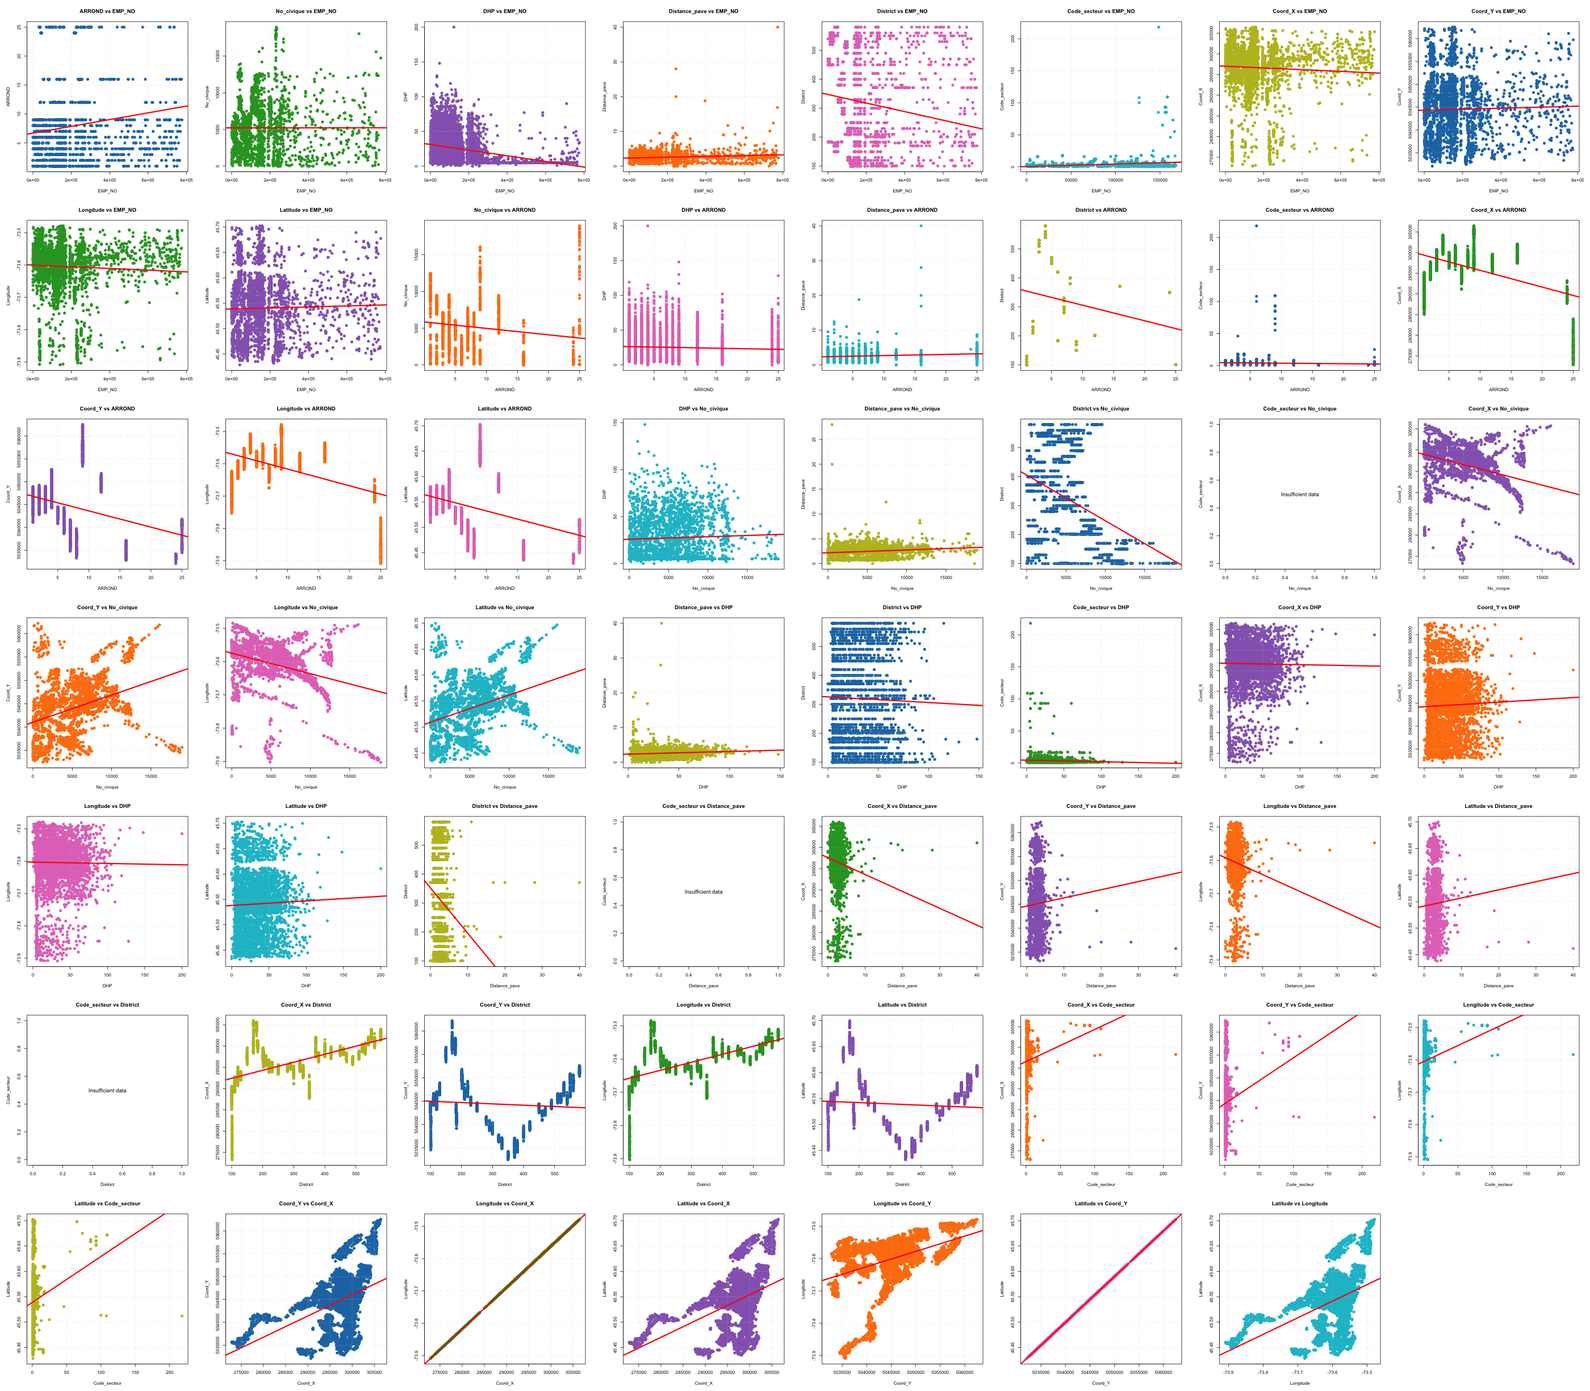
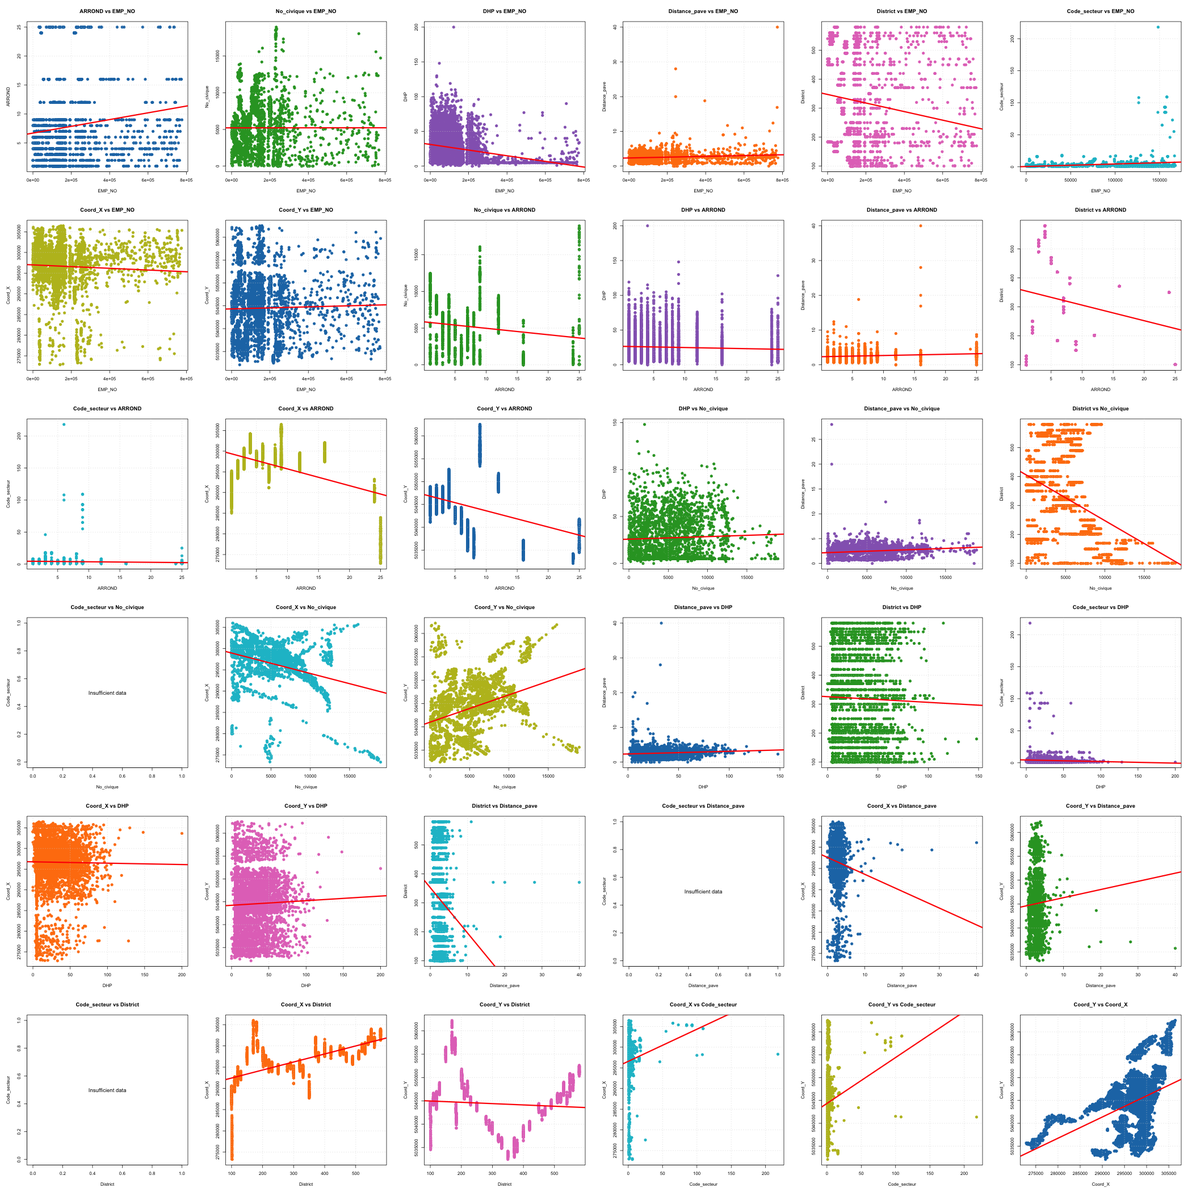
Fix MANOVA rank deficiency by pruning highly correlated columns and fix dependent variable histograms

diff --git a/gen/customer_orders_nominal_audit_report.md b/gen/customer_orders_nominal_audit_report.md
@@ -1,6 +1,6 @@
 # SQL Data Quality and Behavior Analysis Lab Report: customer_orders_nominal
 
-**Report Generated on:** 2026-07-23 09:06:38.885301
+**Report Generated on:** 2026-07-23 09:52:08.220948
 **Source Dataset:** `customer_orders_nominal.csv`
 **Auditor Classification Status:** CRITICAL ANOMALY DETECTED 🔴
 
@@ -38,28 +38,11 @@ The demographic distribution of the sample is detailed below:
 | **C_REGION** | AFRICA | 125 | 20.23% |
 | **C_REGION** | EUROPE | 118 | 19.09% |
 | **C_REGION** | AMERICA | 117 | 18.93% |
-| **O_TOTALPRICE_BIN** | Medium | 210 | 33.98% |
-| **O_TOTALPRICE_BIN** | Low | 204 | 33.01% |
-| **O_TOTALPRICE_BIN** | High | 204 | 33.01% |
-| **C_ACCTBAL_BIN** | Medium | 210 | 33.98% |
-| **C_ACCTBAL_BIN** | Low | 204 | 33.01% |
-| **C_ACCTBAL_BIN** | High | 204 | 33.01% |
-| **TOTAL_QUANTITY_BIN** | Medium | 209 | 33.82% |
-| **TOTAL_QUANTITY_BIN** | Low | 206 | 33.33% |
-| **TOTAL_QUANTITY_BIN** | High | 203 | 32.85% |
-| **AVG_DISCOUNT_BIN** | Low | 209 | 33.82% |
-| **AVG_DISCOUNT_BIN** | Medium | 205 | 33.17% |
-| **AVG_DISCOUNT_BIN** | High | 204 | 33.01% |
-| **TOTAL_DISCOUNT_VALUE_BIN** | Medium | 210 | 33.98% |
-| **TOTAL_DISCOUNT_VALUE_BIN** | Low | 204 | 33.01% |
-| **TOTAL_DISCOUNT_VALUE_BIN** | High | 204 | 33.01% |
-| **MAX_SHIP_DELAY_LOG_BIN** | Medium | 258 | 41.75% |
-| **MAX_SHIP_DELAY_LOG_BIN** | Low | 203 | 32.85% |
-| **MAX_SHIP_DELAY_LOG_BIN** | High | 149 | 24.11% |
 
 Figure 3 presents the sample size distributions across each independent categorical variable to evaluate demographic coverage and statistical power:
 
-![Figure 3: Independent Variable Sample Size Distributions](customer_orders_nominal_independent_distributions.png)
+![Figure 3a: Dependent Variable Sample Size Distributions](customer_orders_nominal_dependent_distributions.png)
+![Figure 3b: Independent Variable Sample Size Distributions](customer_orders_nominal_independent_distributions.png)
 
 ### Apparatus and Setup
 Queries were executed against the Snowflake TPC-H sample database (`SNOWFLAKE_SAMPLE_DATA.TPCH_SF1`; Transaction Processing Performance Council [TPC], 2014) using the Snowflake CLI tool (`snow` CLI v3.20.0). Statistical analysis and clustering were computed in R using packages `car` (ANOVA/MANOVA modelling) and `cluster` (K-Means silhouette groupings).
@@ -73,7 +56,7 @@ To profile user choice dynamics, click patterns, and decision hesitation (Pongra
 
 ### Experimental Design
 We define a mixed multivariate design incorporating:
-* **Independent Variables (Factors)**: `O_ORDERSTATUS`, `O_ORDERPRIORITY`, `C_MKTSEGMENT`, `C_REGION`, `O_TOTALPRICE_BIN`, `C_ACCTBAL_BIN`, `TOTAL_QUANTITY_BIN`, `AVG_DISCOUNT_BIN`, `TOTAL_DISCOUNT_VALUE_BIN`, `MAX_SHIP_DELAY_LOG_BIN`
+* **Independent Variables (Factors)**: `O_ORDERSTATUS`, `O_ORDERPRIORITY`, `C_MKTSEGMENT`, `C_REGION`
 * **Dependent Variables (Metrics)**: `O_TOTALPRICE`, `C_ACCTBAL`, `TOTAL_QUANTITY`, `AVG_DISCOUNT`, `TOTAL_DISCOUNT_VALUE`, `ITEM_COUNT`, `MAX_SHIP_DELAY_LOG`
 
 ### Response-Time Preprocessing (Methodological Standards)
@@ -91,64 +74,31 @@ Following standard methodologies for reaction time outcomes (McConnell et al., 2
 - **WARNING: Constant Column 'O_ORDERSTATUS'**: 100% of rows contain the value 'O'.
 - **WARNING: Constant Column 'O_ORDERDATE'**: 100% of rows contain the value '1998-08-01'.
 - **WARNING: Suspicious Uniformity on 'C_REGION'**: Category counts are highly uniform (Coefficient of Variation = 0.0474). This suggests the dataset is synthetic or has been artificially balanced.
-- **WARNING: Suspicious Uniformity on 'O_TOTALPRICE_BIN'**: Category counts are highly uniform (Coefficient of Variation = 0.0168). This suggests the dataset is synthetic or has been artificially balanced.
-- **WARNING: Suspicious Uniformity on 'C_ACCTBAL_BIN'**: Category counts are highly uniform (Coefficient of Variation = 0.0168). This suggests the dataset is synthetic or has been artificially balanced.
-- **WARNING: Suspicious Uniformity on 'TOTAL_QUANTITY_BIN'**: Category counts are highly uniform (Coefficient of Variation = 0.0146). This suggests the dataset is synthetic or has been artificially balanced.
-- **WARNING: Suspicious Uniformity on 'AVG_DISCOUNT_BIN'**: Category counts are highly uniform (Coefficient of Variation = 0.0128). This suggests the dataset is synthetic or has been artificially balanced.
-- **WARNING: Suspicious Uniformity on 'TOTAL_DISCOUNT_VALUE_BIN'**: Category counts are highly uniform (Coefficient of Variation = 0.0168). This suggests the dataset is synthetic or has been artificially balanced.
 
 ### Statistical Hypothesis Testing
 #### MANOVA Group Factor Outcomes
 We executed [multivariate analysis of variance (MANOVA)](https://en.wikipedia.org/wiki/Multivariate_analysis_of_variance) using [Pillai's trace](https://www.statisticshowto.com/pillais-trace/) to test for overall group differences across continuous variables:
 
 - **Group Factor 'O_ORDERPRIORITY'**:
-  - Pillai's Trace: `0.0382`
-  - Approximate F:  `0.8289`
-  - p-value:        `0.7218` (Not Significant)
+  - Pillai's Trace: `0.0310`
+  - Approximate F:  `0.7840`
+  - p-value:        `0.7611` (Not Significant)
 
 - **Group Factor 'C_MKTSEGMENT'**:
-  - Pillai's Trace: `0.0509`
-  - Approximate F:  `1.1079`
-  - p-value:        `0.3175` (Not Significant)
+  - Pillai's Trace: `0.0484`
+  - Approximate F:  `1.2307`
+  - p-value:        `0.2022` (Not Significant)
 
 - **Group Factor 'C_REGION'**:
-  - Pillai's Trace: `0.0254`
-  - Approximate F:  `0.5488`
-  - p-value:        `0.9739` (Not Significant)
-
-- **Group Factor 'MAX_SHIP_DELAY_LOG_BIN'**:
-  - Pillai's Trace: `0.6264`
-  - Approximate F:  `39.2228`
-  - p-value:        `< 0.0001` (Statistically Significant)
+  - Pillai's Trace: `0.0180`
+  - Approximate F:  `0.4539`
+  - p-value:        `0.9896` (Not Significant)
 
 
 #### ANOVA Outputs (Significant Univariate Groupings)
 We evaluated individual [univariate Analysis of Variance (ANOVA)](https://en.wikipedia.org/wiki/Analysis_of_variance) models for each continuous metric. The following factors show statistically significant differences (p < 0.05) in group means:
 
-- **Significant variation in 'O_TOTALPRICE' grouped by 'TOTAL_QUANTITY_BIN'**: F = `1279.3364`, p = `< 0.0001`
-- **Significant variation in 'O_TOTALPRICE' grouped by 'AVG_DISCOUNT_BIN'**: F = `14.2000`, p = `< 0.0001`
-- **Significant variation in 'O_TOTALPRICE' grouped by 'TOTAL_DISCOUNT_VALUE_BIN'**: F = `511.4893`, p = `< 0.0001`
-- **Significant variation in 'O_TOTALPRICE' grouped by 'MAX_SHIP_DELAY_LOG_BIN'**: F = `51.2760`, p = `< 0.0001`
-- **Significant variation in 'TOTAL_QUANTITY' grouped by 'O_TOTALPRICE_BIN'**: F = `1427.0373`, p = `< 0.0001`
-- **Significant variation in 'TOTAL_QUANTITY' grouped by 'AVG_DISCOUNT_BIN'**: F = `16.1459`, p = `< 0.0001`
-- **Significant variation in 'TOTAL_QUANTITY' grouped by 'TOTAL_DISCOUNT_VALUE_BIN'**: F = `518.9834`, p = `< 0.0001`
-- **Significant variation in 'TOTAL_QUANTITY' grouped by 'MAX_SHIP_DELAY_LOG_BIN'**: F = `52.4728`, p = `< 0.0001`
-- **Significant variation in 'AVG_DISCOUNT' grouped by 'TOTAL_DISCOUNT_VALUE_BIN'**: F = `53.0806`, p = `< 0.0001`
-- **Significant variation in 'TOTAL_DISCOUNT_VALUE' grouped by 'O_TOTALPRICE_BIN'**: F = `448.7368`, p = `< 0.0001`
-- **Significant variation in 'TOTAL_DISCOUNT_VALUE' grouped by 'TOTAL_QUANTITY_BIN'**: F = `452.6462`, p = `< 0.0001`
-- **Significant variation in 'TOTAL_DISCOUNT_VALUE' grouped by 'AVG_DISCOUNT_BIN'**: F = `71.1741`, p = `< 0.0001`
-- **Significant variation in 'TOTAL_DISCOUNT_VALUE' grouped by 'MAX_SHIP_DELAY_LOG_BIN'**: F = `35.7527`, p = `< 0.0001`
-- **Significant variation in 'ITEM_COUNT' grouped by 'O_TOTALPRICE_BIN'**: F = `716.1448`, p = `< 0.0001`
-- **Significant variation in 'ITEM_COUNT' grouped by 'TOTAL_QUANTITY_BIN'**: F = `830.1939`, p = `< 0.0001`
-- **Significant variation in 'ITEM_COUNT' grouped by 'AVG_DISCOUNT_BIN'**: F = `28.6173`, p = `< 0.0001`
-- **Significant variation in 'ITEM_COUNT' grouped by 'TOTAL_DISCOUNT_VALUE_BIN'**: F = `341.0506`, p = `< 0.0001`
-- **Significant variation in 'ITEM_COUNT' grouped by 'MAX_SHIP_DELAY_LOG_BIN'**: F = `65.4372`, p = `< 0.0001`
 - **Significant variation in 'MAX_SHIP_DELAY_LOG' grouped by 'C_MKTSEGMENT'**: F = `2.8583`, p = `0.0229`
-- **Significant variation in 'MAX_SHIP_DELAY_LOG' grouped by 'O_TOTALPRICE_BIN'**: F = `67.2699`, p = `< 0.0001`
-- **Significant variation in 'MAX_SHIP_DELAY_LOG' grouped by 'TOTAL_QUANTITY_BIN'**: F = `73.0717`, p = `< 0.0001`
-- **Significant variation in 'MAX_SHIP_DELAY_LOG' grouped by 'AVG_DISCOUNT_BIN'**: F = `4.4221`, p = `0.0124`
-- **Significant variation in 'MAX_SHIP_DELAY_LOG' grouped by 'TOTAL_DISCOUNT_VALUE_BIN'**: F = `49.7741`, p = `< 0.0001`
-- **Significant variation in 'MAX_SHIP_DELAY_LOG' grouped by 'MAX_SHIP_DELAY_LOG_BIN'**: F = `463.7476`, p = `< 0.0001`
 
 Figure 2 presents the pairwise scatterplots with a fitted linear regression line of best fit to visualize the correlation and linear relationships between these continuous metrics:
 
@@ -159,17 +109,17 @@ We standardized the numeric metrics and fitted a [K-Means clustering algorithm](
 
 | Persona Cluster | Order Count | Percentage (%) |
 |---|---|---|
-| **Cluster 1** | 287 | 46.44% |
-| **Cluster 2** | 331 | 53.56% |
+| **Cluster 1** | 317 | 51.29% |
+| **Cluster 2** | 301 | 48.71% |
 
 
 #### Population Profiles (Cluster Feature Means)
 To characterize the discovered customer order personas in terms of the original variables, the table below presents the mean value of each numeric metric within each cluster:
 
-| Cluster | O_TOTALPRICE | C_ACCTBAL | TOTAL_QUANTITY | AVG_DISCOUNT | TOTAL_DISCOUNT_VALUE | ITEM_COUNT | MAX_SHIP_DELAY_LOG |
-|---|---|---|---|---|---|---|---|
-| **Cluster 1** | 230128.95 | 4277.64 | 155.00 | 0.05 | 12067.62 | 5.79 | 3.29 |
-| **Cluster 2** | 84001.63 | 4779.32 | 56.68 | 0.05 | 3926.69 | 2.48 | 3.03 |
+| Cluster | O_TOTALPRICE | C_ACCTBAL | AVG_DISCOUNT | TOTAL_DISCOUNT_VALUE | ITEM_COUNT | MAX_SHIP_DELAY_LOG |
+|---|---|---|---|---|---|---|
+| **Cluster 1** | 81640.16 | 4764.78 | 0.05 | 3686.01 | 2.42 | 3.02 |
+| **Cluster 2** | 225819.33 | 4316.29 | 0.05 | 11942.45 | 5.70 | 3.29 |
 
 
 ## 4. Exploratory Multivariate Analysis and Cluster Diagnostics
@@ -182,13 +132,12 @@ To reverse-engineer which original variables drive the principal component proje
 
 | Metric | PC1 Loading | PC2 Loading | Influence Strength (PC1 & PC2) |
 |---|---|---|---|
-| `AVG_DISCOUNT` | `-0.0911` | `0.8663` | `0.8711` |
-| `TOTAL_DISCOUNT_VALUE` | `-0.4614` | `0.2736` | `0.5364` |
-| `TOTAL_QUANTITY` | `-0.4938` | `-0.1083` | `0.5055` |
-| `O_TOTALPRICE` | `-0.4916` | `-0.1107` | `0.5039` |
-| `ITEM_COUNT` | `-0.4673` | `-0.1320` | `0.4855` |
-| `MAX_SHIP_DELAY_LOG` | `-0.2700` | `-0.1856` | `0.3276` |
-| `C_ACCTBAL` | `0.0462` | `-0.3143` | `0.3177` |
+| `AVG_DISCOUNT` | `-0.1410` | `0.8526` | `0.8642` |
+| `TOTAL_DISCOUNT_VALUE` | `-0.5341` | `0.2340` | `0.5831` |
+| `O_TOTALPRICE` | `-0.5456` | `-0.1462` | `0.5648` |
+| `ITEM_COUNT` | `-0.5309` | `-0.1807` | `0.5608` |
+| `MAX_SHIP_DELAY_LOG` | `-0.3333` | `-0.2676` | `0.4275` |
+| `C_ACCTBAL` | `0.0648` | `-0.3045` | `0.3113` |
 
 
 ### Interpretation of Figure 1:
@@ -204,11 +153,6 @@ Based on the results, we recommend the following modifications to improve the SQ
 - **Constant Column 'O_ORDERSTATUS'**: Verify if this is an intended filter (e.g., single day partition). If not, verify that you didn't accidentally hardcode a value or introduce a query join bug.
 - **Constant Column 'O_ORDERDATE'**: Verify if this is an intended filter (e.g., single day partition). If not, verify that you didn't accidentally hardcode a value or introduce a query join bug.
 - **Investigate Uniformity on 'C_REGION'**: Ensure this uniform distribution is natural for your business domain, or replace with a representative natural dataset.
-- **Investigate Uniformity on 'O_TOTALPRICE_BIN'**: Ensure this uniform distribution is natural for your business domain, or replace with a representative natural dataset.
-- **Investigate Uniformity on 'C_ACCTBAL_BIN'**: Ensure this uniform distribution is natural for your business domain, or replace with a representative natural dataset.
-- **Investigate Uniformity on 'TOTAL_QUANTITY_BIN'**: Ensure this uniform distribution is natural for your business domain, or replace with a representative natural dataset.
-- **Investigate Uniformity on 'AVG_DISCOUNT_BIN'**: Ensure this uniform distribution is natural for your business domain, or replace with a representative natural dataset.
-- **Investigate Uniformity on 'TOTAL_DISCOUNT_VALUE_BIN'**: Ensure this uniform distribution is natural for your business domain, or replace with a representative natural dataset.
 
 ### Methodological Discussion on Skewness
 As detailed in the references, response-time metrics are typically right-skewed and violating [normality assumptions](https://en.wikipedia.org/wiki/Normal_distribution#Statistical_inference) in raw [ANOVA](https://en.wikipedia.org/wiki/Analysis_of_variance) leads to higher [Type I errors](https://en.wikipedia.org/wiki/Type_I_and_Type_II_errors#Type_I_error). Log-transforming the delay metrics significantly stabilizes the residuals, making our multivariate models highly reliable for identifying behavioral deviations in the customer order personas.
@@ -275,12 +219,8 @@ The following table details the variables that were audited and identified as un
 |---|---|---|
 | `O_ORDERSTATUS` | constant | Constant column (0 variance) |
 | `C_REGION` | uniform | Suspicious uniformity (Coefficient of Variation = 0.0474 < 8%) |
-| `O_TOTALPRICE_BIN` | uniform | Suspicious uniformity (Coefficient of Variation = 0.0168 < 8%) |
-| `C_ACCTBAL_BIN` | uniform | Suspicious uniformity (Coefficient of Variation = 0.0168 < 8%) |
-| `TOTAL_QUANTITY_BIN` | uniform | Suspicious uniformity (Coefficient of Variation = 0.0146 < 8%) |
-| `AVG_DISCOUNT_BIN` | uniform | Suspicious uniformity (Coefficient of Variation = 0.0128 < 8%) |
-| `TOTAL_DISCOUNT_VALUE_BIN` | uniform | Suspicious uniformity (Coefficient of Variation = 0.0168 < 8%) |
 | `O_ORDERPRIORITY` | insignificant | Statistically insignificant (p-value >= 0.05 across all ANOVA/MANOVA groups) |
+| `TOTAL_QUANTITY` | collinear | Multicollinearity (high redundancy correlation >= 0.95 with another variable) |
 
 Figure 4 presents the distribution of these uninformative variables, showing why they lack statistical value (e.g. constant values, artificial uniform distributions, or flat statistical groupings):
 

diff --git a/gen/arbres-publics_audit_report.md b/gen/arbres-publics_audit_report.md
@@ -1,6 +1,6 @@
 # SQL Data Quality and Behavior Analysis Lab Report: arbres-publics
 
-**Report Generated on:** 2026-07-23 09:43:28.26632
+**Report Generated on:** 2026-07-23 09:52:21.379951
 **Source Dataset:** `arbres-publics.csv`
 **Auditor Classification Status:** MINOR ANOMALY DETECTED 🟡
 
@@ -103,7 +103,51 @@ We define a mixed multivariate design incorporating:
 #### MANOVA Group Factor Outcomes
 We executed [multivariate analysis of variance (MANOVA)](https://en.wikipedia.org/wiki/Multivariate_analysis_of_variance) using [Pillai's trace](https://www.statisticshowto.com/pillais-trace/) to test for overall group differences across continuous variables:
 
-No MANOVA tests could be computed.
+- **Group Factor 'INV_TYPE'**:
+  - Pillai's Trace: `0.1354`
+  - Approximate F:  `156.3662`
+  - p-value:        `< 0.0001` (Statistically Significant)
+
+- **Group Factor 'Rue_cote_LUMPED'**:
+  - Pillai's Trace: `0.5601`
+  - Approximate F:  `125.9315`
+  - p-value:        `< 0.0001` (Statistically Significant)
+
+- **Group Factor 'Emplacement_LUMPED'**:
+  - Pillai's Trace: `0.2525`
+  - Approximate F:  `53.0966`
+  - p-value:        `< 0.0001` (Statistically Significant)
+
+- **Group Factor 'Sigle_LUMPED'**:
+  - Pillai's Trace: `0.4433`
+  - Approximate F:  `32.3058`
+  - p-value:        `< 0.0001` (Statistically Significant)
+
+- **Group Factor 'Essence_latin_LUMPED'**:
+  - Pillai's Trace: `0.4433`
+  - Approximate F:  `32.3058`
+  - p-value:        `< 0.0001` (Statistically Significant)
+
+- **Group Factor 'Essence_fr_LUMPED'**:
+  - Pillai's Trace: `0.4433`
+  - Approximate F:  `32.3058`
+  - p-value:        `< 0.0001` (Statistically Significant)
+
+- **Group Factor 'Essence_ang_LUMPED'**:
+  - Pillai's Trace: `0.4433`
+  - Approximate F:  `32.3058`
+  - p-value:        `< 0.0001` (Statistically Significant)
+
+- **Group Factor 'Stationnement_jour_LUMPED'**:
+  - Pillai's Trace: `0.1687`
+  - Approximate F:  `34.8504`
+  - p-value:        `< 0.0001` (Statistically Significant)
+
+- **Group Factor 'Stationnement_heure_LUMPED'**:
+  - Pillai's Trace: `0.2057`
+  - Approximate F:  `16.4451`
+  - p-value:        `< 0.0001` (Statistically Significant)
+
 
 #### ANOVA Outputs (Significant Univariate Groupings)
 We evaluated individual [univariate Analysis of Variance (ANOVA)](https://en.wikipedia.org/wiki/Analysis_of_variance) models for each continuous metric. The following factors show statistically significant differences (p < 0.05) in group means:
@@ -180,24 +224,6 @@ We evaluated individual [univariate Analysis of Variance (ANOVA)](https://en.wik
 - **Significant variation in 'Coord_Y' grouped by 'Essence_ang_LUMPED'**: F = `4.5766`, p = `< 0.0001`
 - **Significant variation in 'Coord_Y' grouped by 'Stationnement_jour_LUMPED'**: F = `36.2717`, p = `< 0.0001`
 - **Significant variation in 'Coord_Y' grouped by 'Stationnement_heure_LUMPED'**: F = `11.6129`, p = `< 0.0001`
-- **Significant variation in 'Longitude' grouped by 'ARROND_NOM'**: F = `4179.3510`, p = `< 0.0001`
-- **Significant variation in 'Longitude' grouped by 'Rue_cote_LUMPED'**: F = `70.2823`, p = `< 0.0001`
-- **Significant variation in 'Longitude' grouped by 'Emplacement_LUMPED'**: F = `42.6297`, p = `< 0.0001`
-- **Significant variation in 'Longitude' grouped by 'Sigle_LUMPED'**: F = `6.9019`, p = `< 0.0001`
-- **Significant variation in 'Longitude' grouped by 'Essence_latin_LUMPED'**: F = `6.9019`, p = `< 0.0001`
-- **Significant variation in 'Longitude' grouped by 'Essence_fr_LUMPED'**: F = `6.9019`, p = `< 0.0001`
-- **Significant variation in 'Longitude' grouped by 'Essence_ang_LUMPED'**: F = `6.9019`, p = `< 0.0001`
-- **Significant variation in 'Longitude' grouped by 'Stationnement_jour_LUMPED'**: F = `36.1739`, p = `< 0.0001`
-- **Significant variation in 'Longitude' grouped by 'Stationnement_heure_LUMPED'**: F = `25.5656`, p = `< 0.0001`
-- **Significant variation in 'Latitude' grouped by 'ARROND_NOM'**: F = `5706.9610`, p = `< 0.0001`
-- **Significant variation in 'Latitude' grouped by 'Rue_cote_LUMPED'**: F = `32.4302`, p = `< 0.0001`
-- **Significant variation in 'Latitude' grouped by 'Emplacement_LUMPED'**: F = `17.5808`, p = `< 0.0001`
-- **Significant variation in 'Latitude' grouped by 'Sigle_LUMPED'**: F = `4.5741`, p = `< 0.0001`
-- **Significant variation in 'Latitude' grouped by 'Essence_latin_LUMPED'**: F = `4.5741`, p = `< 0.0001`
-- **Significant variation in 'Latitude' grouped by 'Essence_fr_LUMPED'**: F = `4.5741`, p = `< 0.0001`
-- **Significant variation in 'Latitude' grouped by 'Essence_ang_LUMPED'**: F = `4.5741`, p = `< 0.0001`
-- **Significant variation in 'Latitude' grouped by 'Stationnement_jour_LUMPED'**: F = `36.3713`, p = `< 0.0001`
-- **Significant variation in 'Latitude' grouped by 'Stationnement_heure_LUMPED'**: F = `11.6520`, p = `< 0.0001`
 
 Figure 2 presents the pairwise scatterplots with a fitted linear regression line of best fit to visualize the correlation and linear relationships between these continuous metrics:
 
@@ -208,17 +234,17 @@ We standardized the numeric metrics and fitted a [K-Means clustering algorithm](
 
 | Persona Cluster | Order Count | Percentage (%) |
 |---|---|---|
-| **Cluster 1** | 376 | 7.52% |
-| **Cluster 2** | 4624 | 92.48% |
+| **Cluster 1** | 4304 | 86.08% |
+| **Cluster 2** | 696 | 13.92% |
 
 
 #### Population Profiles (Cluster Feature Means)
 To characterize the discovered tree population profiles in terms of the original variables, the table below presents the mean value of each numeric metric within each cluster:
 
-| Cluster | EMP_NO | ARROND | No_civique | DHP | Distance_pave | District | Code_secteur | Coord_X | Coord_Y | Longitude | Latitude |
-|---|---|---|---|---|---|---|---|---|---|---|---|
-| **Cluster 1** | 181924.55 | 24.67 | 4992.94 | 23.79 | 3.04 | 196.53 | 1.67 | 281728.15 | 5036944.03 | -73.80 | 45.47 |
-| **Cluster 2** | 143259.96 | 6.17 | 5239.44 | 25.40 | 2.53 | 330.70 | 4.01 | 297919.83 | 5045097.88 | -73.59 | 45.55 |
+| Cluster | EMP_NO | ARROND | No_civique | DHP | Distance_pave | District | Code_secteur | Coord_X | Coord_Y |
+|---|---|---|---|---|---|---|---|---|---|
+| **Cluster 1** | 137655.13 | 5.45 | 5487.62 | 25.82 | 2.50 | 328.10 | 4.28 | 297768.84 | 5045826.38 |
+| **Cluster 2** | 198807.50 | 20.62 | 3448.55 | 21.93 | 3.27 | 273.62 | 1.35 | 290106.27 | 5036187.96 |
 
 
 ## 4. Exploratory Multivariate Analysis and Cluster Diagnostics
@@ -231,17 +257,15 @@ To reverse-engineer which original variables drive the principal component proje
 
 | Metric | PC1 Loading | PC2 Loading | Influence Strength (PC1 & PC2) |
 |---|---|---|---|
-| `Coord_Y` | `-0.4401` | `0.4652` | `0.6404` |
-| `Latitude` | `-0.4407` | `0.4642` | `0.6401` |
-| `Longitude` | `-0.4839` | `-0.3295` | `0.5855` |
-| `Coord_X` | `-0.4842` | `-0.3289` | `0.5854` |
-| `District` | `-0.1328` | `-0.4090` | `0.4300` |
-| `ARROND` | `0.3478` | `0.0666` | `0.3542` |
-| `No_civique` | `0.0006` | `0.3275` | `0.3275` |
-| `EMP_NO` | `0.0435` | `0.2248` | `0.2290` |
-| `Distance_pave` | `0.0287` | `0.1460` | `0.1487` |
-| `Code_secteur` | `-0.0412` | `0.0225` | `0.0470` |
-| `DHP` | `-0.0187` | `0.0055` | `0.0195` |
+| `EMP_NO` | `0.1596` | `0.6995` | `0.7174` |
+| `DHP` | `-0.0762` | `-0.6655` | `0.6698` |
+| `Coord_X` | `-0.6049` | `0.1298` | `0.6187` |
+| `ARROND` | `0.5561` | `0.0075` | `0.5562` |
+| `Coord_Y` | `-0.4865` | `0.2090` | `0.5295` |
+| `District` | `-0.2238` | `-0.0636` | `0.2327` |
+| `Distance_pave` | `0.0674` | `0.0244` | `0.0717` |
+| `Code_secteur` | `-0.0461` | `0.0489` | `0.0672` |
+| `No_civique` | `0.0093` | `0.0166` | `0.0190` |
 
 
 ### Interpretation of Figure 1:
@@ -314,7 +338,17 @@ document.querySelectorAll('.experiment-button').forEach(button => {
 ---
 
 ## Appendix C: Audited and Uninformative Variables
-No variables were identified as uninformative during this audit.
+The following table details the variables that were audited and identified as uninformative:
+
+| Variable | Type | Reason for Exclusion |
+|---|---|---|
+| `Longitude` | collinear | Multicollinearity (high redundancy correlation >= 0.95 with another variable) |
+| `Latitude` | collinear | Multicollinearity (high redundancy correlation >= 0.95 with another variable) |
+
+Figure 4 presents the distribution of these uninformative variables, showing why they lack statistical value (e.g. constant values, artificial uniform distributions, or flat statistical groupings):
+
+![Figure 4: Uninformative Variable Distributions](arbres-publics_uninformative_distributions.png)
+
 
 ---
 
